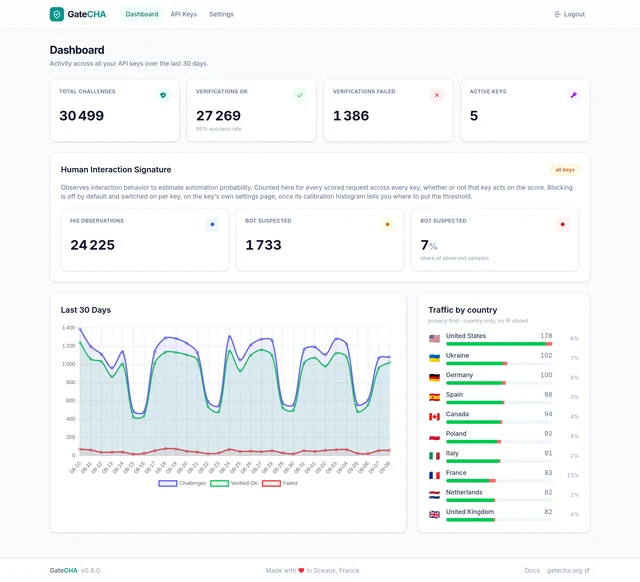
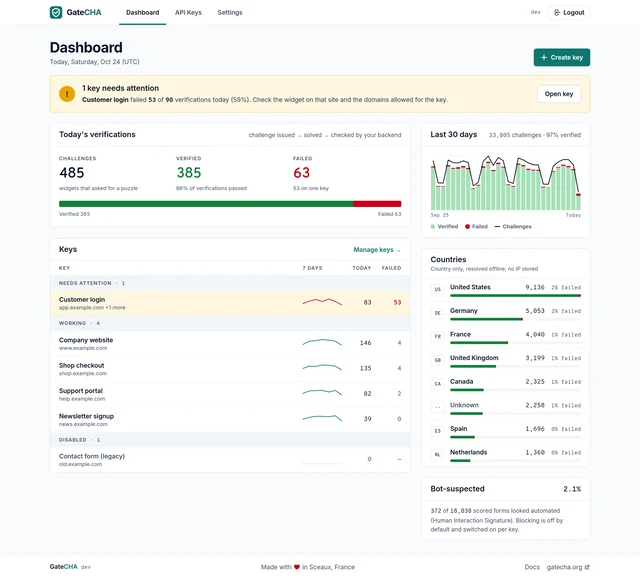
feat: redrawn teal shield and the new dashboard screenshot (#10)
* feat: new GateCHA mark in the favicon and the logo

A "G" whose bar turns into a check, the mark the dashboard now uses.
It replaces the teal shield favicon and sits before the wordmark in the
header and the footer of every page.

* feat: the redrawn teal shield, not the navy G

The owner kept GateCHA's teal and its shield-with-check mark: the
favicon and the logo mark are the redrawn shield, white on teal.

* feat: show the new dashboard in the hero

The hero screenshot shows the attention-first dashboard: a banner naming
the key failing today, today's verification funnel, keys grouped by
status, the 30-day chart and countries. Taken on a demo instance with
generic example.com keys, at 2x; WebP variants regenerated with the
command noted above the <picture>.

---------

diff --git a/index.html b/index.html
@@ -42,7 +42,7 @@
   <header class="header" id="header">
     <nav class="container nav">
       <a href="#" class="logo" aria-label="GateCHA Home">
-        <span class="logo-gate">Gate</span><span class="logo-cha">CHA</span>
+        <svg class="logo-mark" width="28" height="28" viewBox="0 0 32 32" aria-hidden="true"><rect width="32" height="32" rx="7" fill="#0F766E"/><path d="M16 5.5 7.5 9.2v6.3c0 5.6 3.6 9.4 8.5 11.2 4.9-1.8 8.5-5.6 8.5-11.2V9.2L16 5.5z" fill="none" stroke="#fff" stroke-width="2.6" stroke-linejoin="round"/><path d="M12 16.2l2.9 2.9 5.3-6" fill="none" stroke="#fff" stroke-width="2.8" stroke-linecap="round" stroke-linejoin="round"/></svg><span class="logo-gate">Gate</span><span class="logo-cha">CHA</span>
       </a>
       <button class="nav-toggle" aria-label="Toggle navigation" aria-expanded="false">
         <svg width="24" height="24" viewBox="0 0 24 24" fill="none" stroke="currentColor" stroke-width="2" stroke-linecap="round" aria-hidden="true">
@@ -106,8 +106,8 @@
             <source type="image/webp"
                     srcset="assets/dashboard-640.webp 640w, assets/dashboard-960.webp 960w, assets/dashboard-1440.webp 1440w"
                     sizes="(min-width: 1056px) 990px, calc(100vw - 50px)">
-            <img src="assets/dashboard.png" width="1440" height="1310"
-                 alt="GateCHA dashboard showing challenge totals, the Human Interaction Signature monitor, traffic by country and a 30-day verification chart"
+            <img src="assets/dashboard.png" width="1440" height="1303"
+                 alt="GateCHA dashboard: a banner naming the one key failing today, today's challenges, verified and failed counts, keys grouped by status, a 30-day verification chart and traffic by country"
                  fetchpriority="high" decoding="async"
                  onerror="this.closest('.hero-preview-wrap').remove()">
           </picture>
@@ -560,7 +560,7 @@ make build
       <div class="footer-grid">
         <div class="footer-brand">
           <a href="#" class="logo" aria-label="GateCHA Home">
-            <span class="logo-gate">Gate</span><span class="logo-cha">CHA</span>
+            <svg class="logo-mark" width="28" height="28" viewBox="0 0 32 32" aria-hidden="true"><rect width="32" height="32" rx="7" fill="#0F766E"/><path d="M16 5.5 7.5 9.2v6.3c0 5.6 3.6 9.4 8.5 11.2 4.9-1.8 8.5-5.6 8.5-11.2V9.2L16 5.5z" fill="none" stroke="#fff" stroke-width="2.6" stroke-linejoin="round"/><path d="M12 16.2l2.9 2.9 5.3-6" fill="none" stroke="#fff" stroke-width="2.8" stroke-linecap="round" stroke-linejoin="round"/></svg><span class="logo-gate">Gate</span><span class="logo-cha">CHA</span>
           </a>
           <p>Self-hosted ALTCHA CAPTCHA management server. Open source, privacy-first, fully self-contained.</p>
         </div>

diff --git a/docs/index.html b/docs/index.html
@@ -26,7 +26,7 @@
   <header class="header" id="header">
     <nav class="container nav">
       <a href="/" class="logo" aria-label="GateCHA Home">
-        <span class="logo-gate">Gate</span><span class="logo-cha">CHA</span>
+        <svg class="logo-mark" width="28" height="28" viewBox="0 0 32 32" aria-hidden="true"><rect width="32" height="32" rx="7" fill="#0F766E"/><path d="M16 5.5 7.5 9.2v6.3c0 5.6 3.6 9.4 8.5 11.2 4.9-1.8 8.5-5.6 8.5-11.2V9.2L16 5.5z" fill="none" stroke="#fff" stroke-width="2.6" stroke-linejoin="round"/><path d="M12 16.2l2.9 2.9 5.3-6" fill="none" stroke="#fff" stroke-width="2.8" stroke-linecap="round" stroke-linejoin="round"/></svg><span class="logo-gate">Gate</span><span class="logo-cha">CHA</span>
       </a>
       <button class="nav-toggle" aria-label="Toggle navigation" aria-expanded="false">
         <svg width="24" height="24" viewBox="0 0 24 24" fill="none" stroke="currentColor" stroke-width="2" stroke-linecap="round" aria-hidden="true">
@@ -282,7 +282,7 @@ if resp.json().get('ok'):
       <div class="footer-grid">
         <div class="footer-brand">
           <a href="/" class="logo" aria-label="GateCHA Home">
-            <span class="logo-gate">Gate</span><span class="logo-cha">CHA</span>
+            <svg class="logo-mark" width="28" height="28" viewBox="0 0 32 32" aria-hidden="true"><rect width="32" height="32" rx="7" fill="#0F766E"/><path d="M16 5.5 7.5 9.2v6.3c0 5.6 3.6 9.4 8.5 11.2 4.9-1.8 8.5-5.6 8.5-11.2V9.2L16 5.5z" fill="none" stroke="#fff" stroke-width="2.6" stroke-linejoin="round"/><path d="M12 16.2l2.9 2.9 5.3-6" fill="none" stroke="#fff" stroke-width="2.8" stroke-linecap="round" stroke-linejoin="round"/></svg><span class="logo-gate">Gate</span><span class="logo-cha">CHA</span>
           </a>
           <p>Self-hosted ALTCHA CAPTCHA management server. Open source, privacy-first, fully self-contained.</p>
         </div>

diff --git a/wordpress/index.html b/wordpress/index.html
@@ -42,7 +42,7 @@
   <header class="header" id="header">
     <nav class="container nav">
       <a href="/" class="logo" aria-label="GateCHA Home">
-        <span class="logo-gate">Gate</span><span class="logo-cha">CHA</span>
+        <svg class="logo-mark" width="28" height="28" viewBox="0 0 32 32" aria-hidden="true"><rect width="32" height="32" rx="7" fill="#0F766E"/><path d="M16 5.5 7.5 9.2v6.3c0 5.6 3.6 9.4 8.5 11.2 4.9-1.8 8.5-5.6 8.5-11.2V9.2L16 5.5z" fill="none" stroke="#fff" stroke-width="2.6" stroke-linejoin="round"/><path d="M12 16.2l2.9 2.9 5.3-6" fill="none" stroke="#fff" stroke-width="2.8" stroke-linecap="round" stroke-linejoin="round"/></svg><span class="logo-gate">Gate</span><span class="logo-cha">CHA</span>
       </a>
       <button class="nav-toggle" aria-label="Toggle navigation" aria-expanded="false">
         <svg width="24" height="24" viewBox="0 0 24 24" fill="none" stroke="currentColor" stroke-width="2" stroke-linecap="round" aria-hidden="true">
@@ -332,7 +332,7 @@
       <div class="footer-grid">
         <div class="footer-brand">
           <a href="/" class="logo" aria-label="GateCHA Home">
-            <span class="logo-gate">Gate</span><span class="logo-cha">CHA</span>
+            <svg class="logo-mark" width="28" height="28" viewBox="0 0 32 32" aria-hidden="true"><rect width="32" height="32" rx="7" fill="#0F766E"/><path d="M16 5.5 7.5 9.2v6.3c0 5.6 3.6 9.4 8.5 11.2 4.9-1.8 8.5-5.6 8.5-11.2V9.2L16 5.5z" fill="none" stroke="#fff" stroke-width="2.6" stroke-linejoin="round"/><path d="M12 16.2l2.9 2.9 5.3-6" fill="none" stroke="#fff" stroke-width="2.8" stroke-linecap="round" stroke-linejoin="round"/></svg><span class="logo-gate">Gate</span><span class="logo-cha">CHA</span>
           </a>
           <p>Self-hosted ALTCHA CAPTCHA management server. Open source, privacy-first, fully self-contained.</p>
         </div>

diff --git a/css/style.css b/css/style.css
@@ -250,6 +250,13 @@ section {
   letter-spacing: -0.02em;
   text-decoration: none;
   display: flex;
+  align-items: center;
+}
+
+/* The mark: a shield with a check, white on teal (same drawing as the favicon). */
+.logo-mark {
+  flex-shrink: 0;
+  margin-right: 0.5rem;
 }
 
 .logo-gate {
